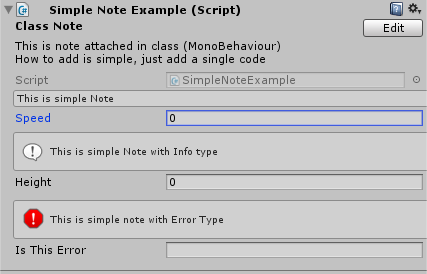
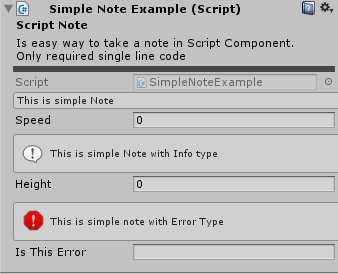
update docs

diff --git a/source/index.rst b/source/index.rst
@@ -16,8 +16,9 @@ Create a Global Note
 .. image:: /img/SimpleNoteGlobalShow.PNG
 
 - Click button Add a Note
-- Click button 'e' to Edit
-- To remove, click button '-'
+- Click text to Edit
+- click button 'x' to remove
+- click button '-' to minimize
 
 .. image:: /img/SimpleNoteGlobal.PNG
 
@@ -30,11 +31,11 @@ Create a Note to GameObject
 .. image:: /img/SimpleNoteAdd.PNG
 
 - Then a new note appears in Scene View.
-- To Edit note, just click button on the top right of Note Rectangle (Right after Title)
+- Click text to edit
 
 .. image:: /img/SimpleNoteGameObject.PNG
 
-Add a Note to Class and Variable
+Add a Note to Script Component and Variable
 --------------------------------
 
 - Open Script you want to add Note
@@ -49,6 +50,7 @@ Simple Note Preferences
 -----------------------
 
 Windows : Edit/Preferences/Simple Note
+
 Mac : Unity/Preferences/Simple Note
 
 .. image:: /img/SimpleNotePreference.PNG
